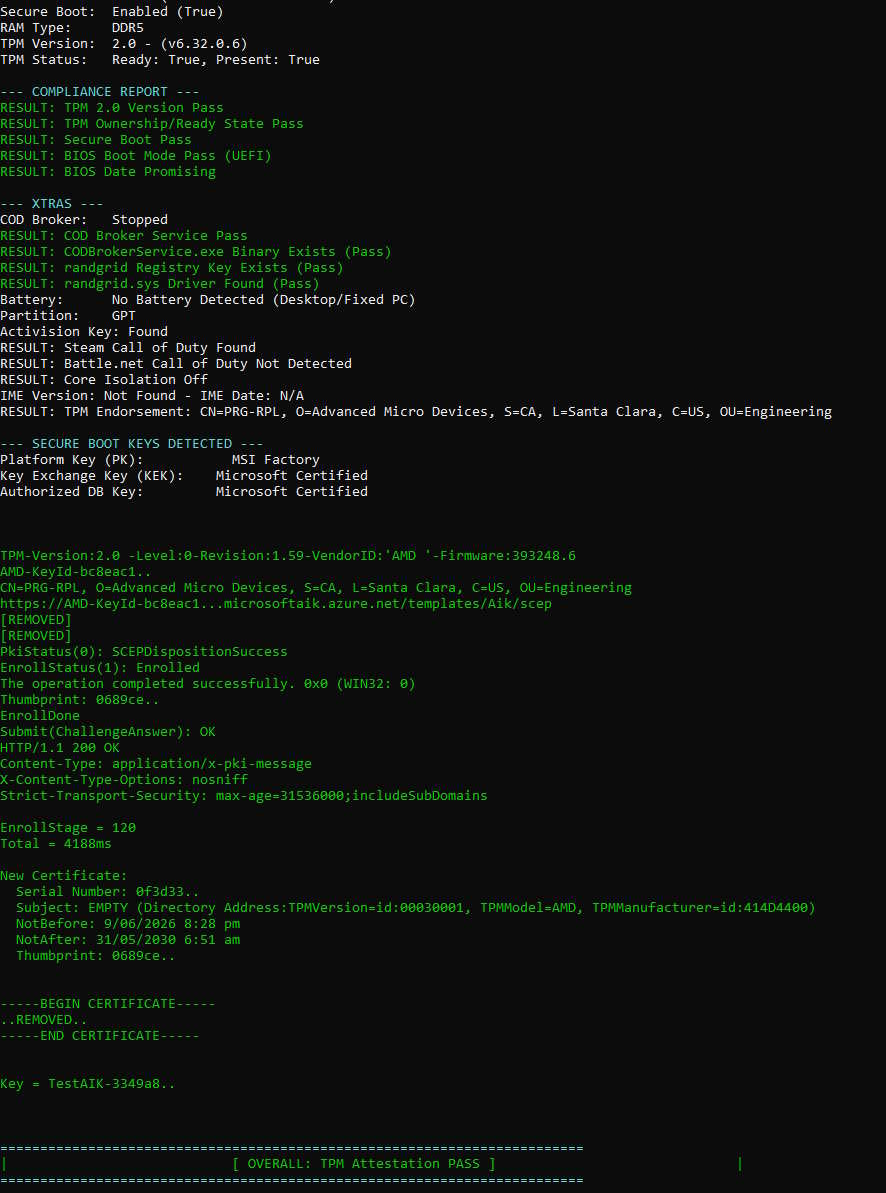
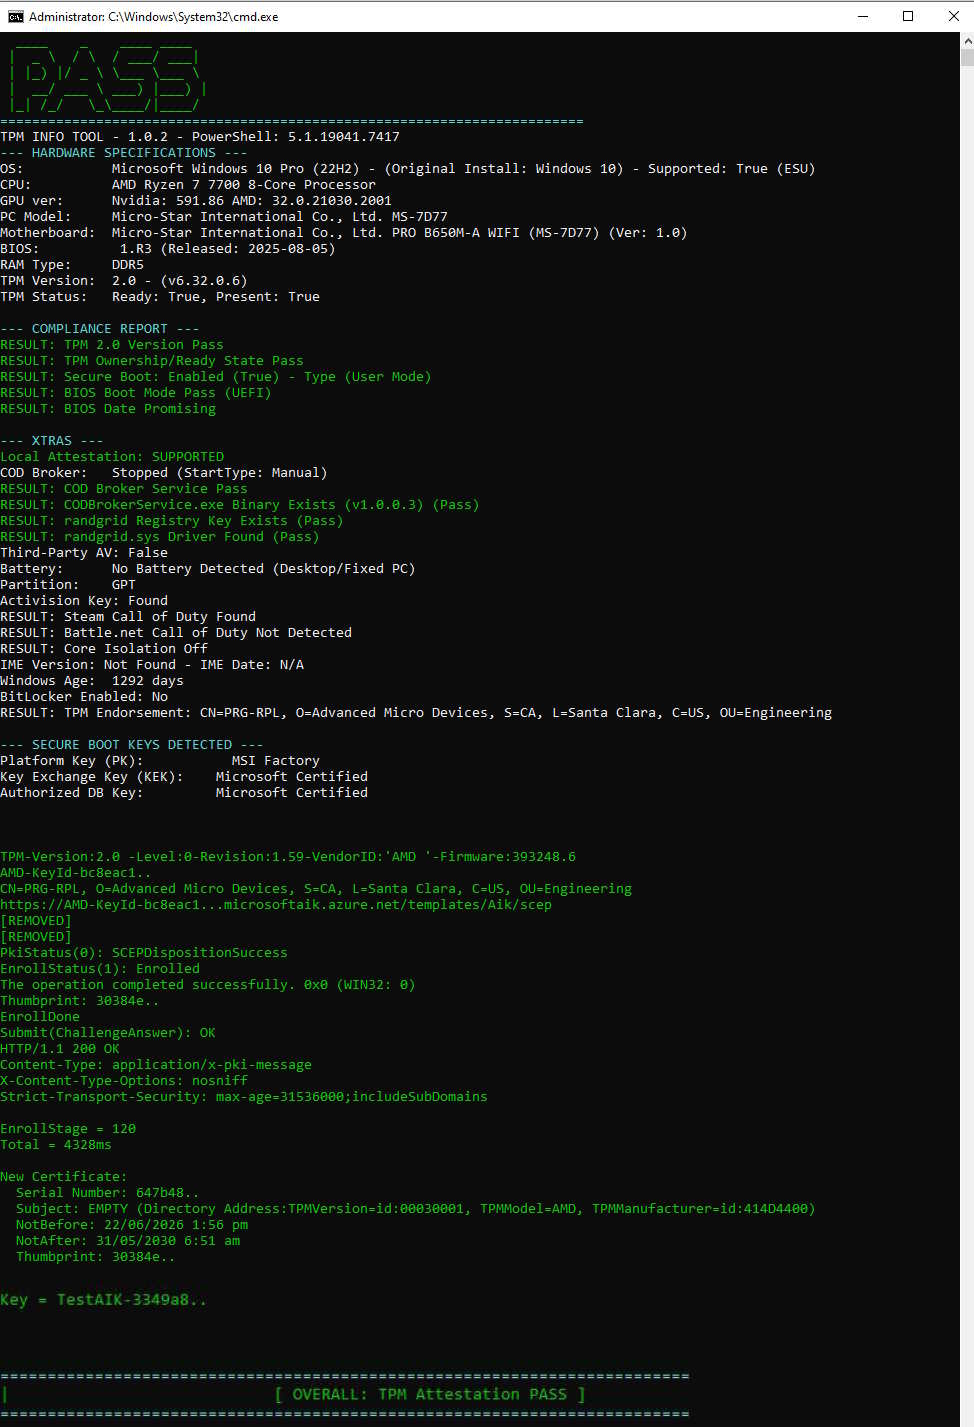
Update Readme

diff --git a/README.md b/README.md
@@ -4,9 +4,13 @@ An experimental tool that displays technical information to help troubleshoot TP
 
 ## 📦 How to Use
 
-1) Download and run 'TPM INFO TOOL.cmd'. You will see a UAC prompt.
-2) The program will display a list of TPM related info and automatically copy it to your clipboard.
-3) Look for the overall TPM Attestation PASS/FAIL at the bottom!
+1) Download and run 'TPM INFO TOOL.cmd'.
+1a) Click the green "Code" button and click "Download zip".
+1b) Extract zip file.
+1c) Run "TPM INFO TOOL.cmd". You will see an admin prompt (UAC).
+
+2) The program will display a list of TPM related info and will automatically copy it to your clipboard.
+3) Look for the overall TPM Attestation PASS/FAIL.
 
 ## 📷 Preview
 